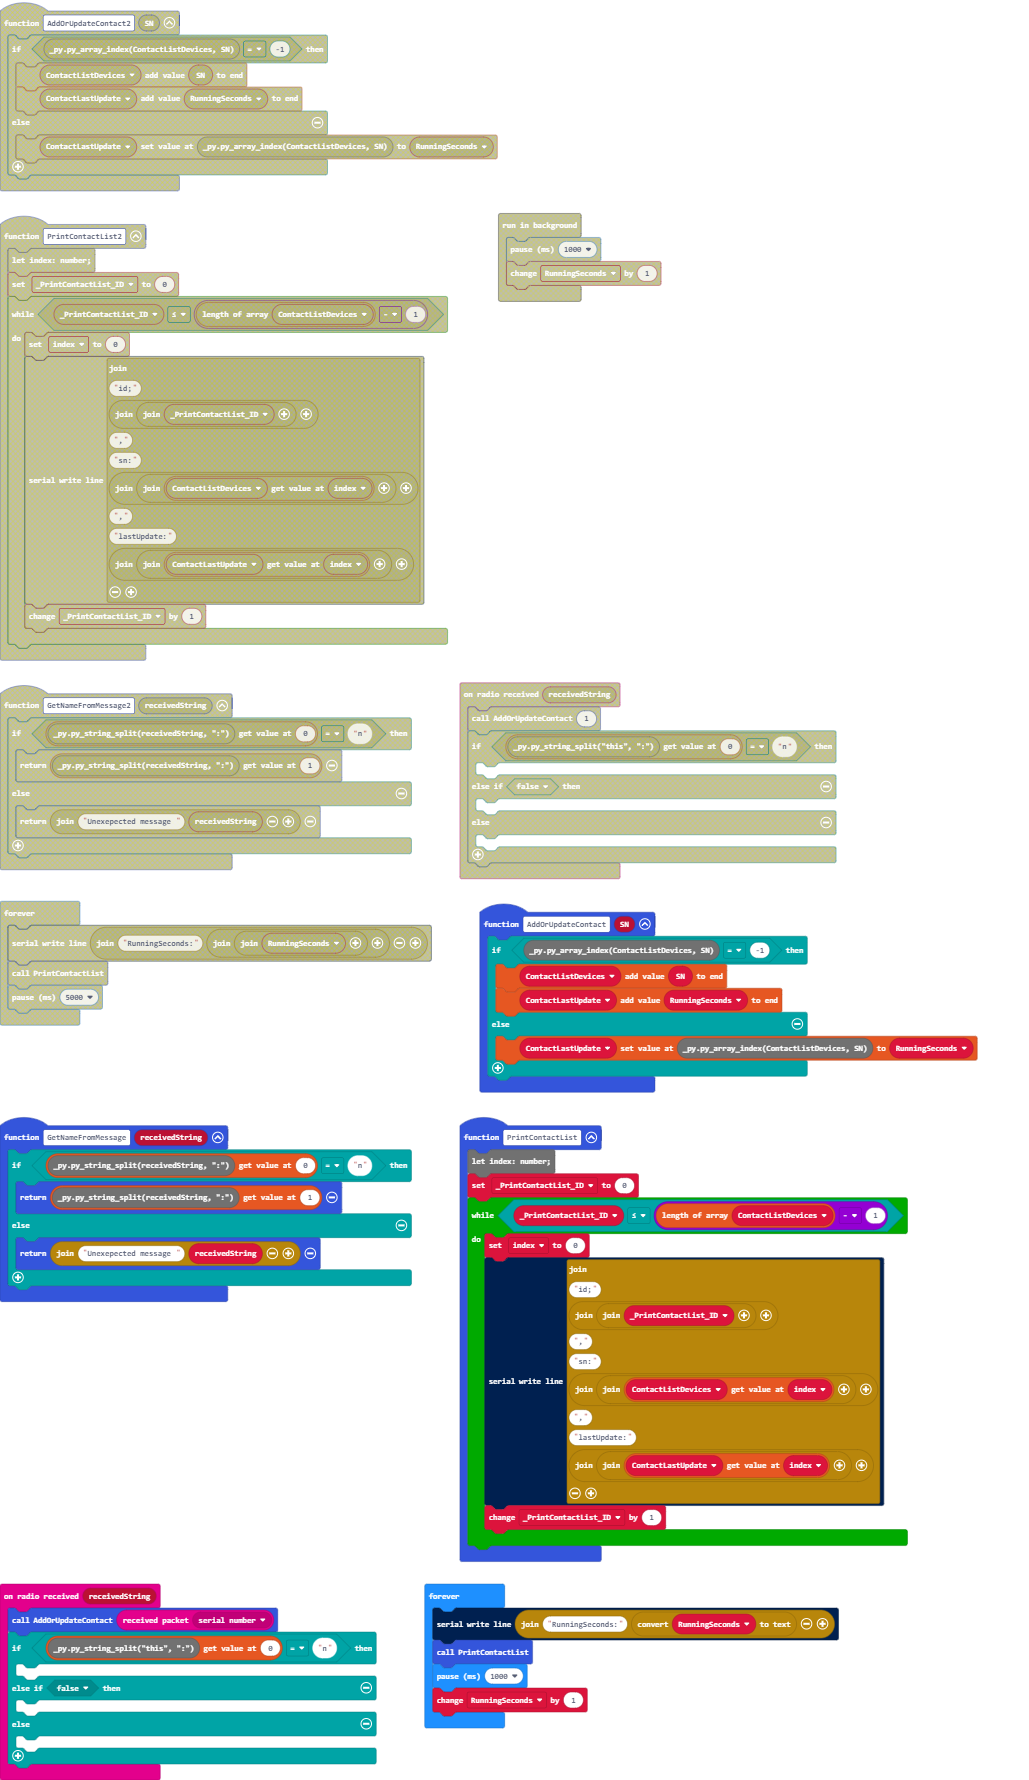
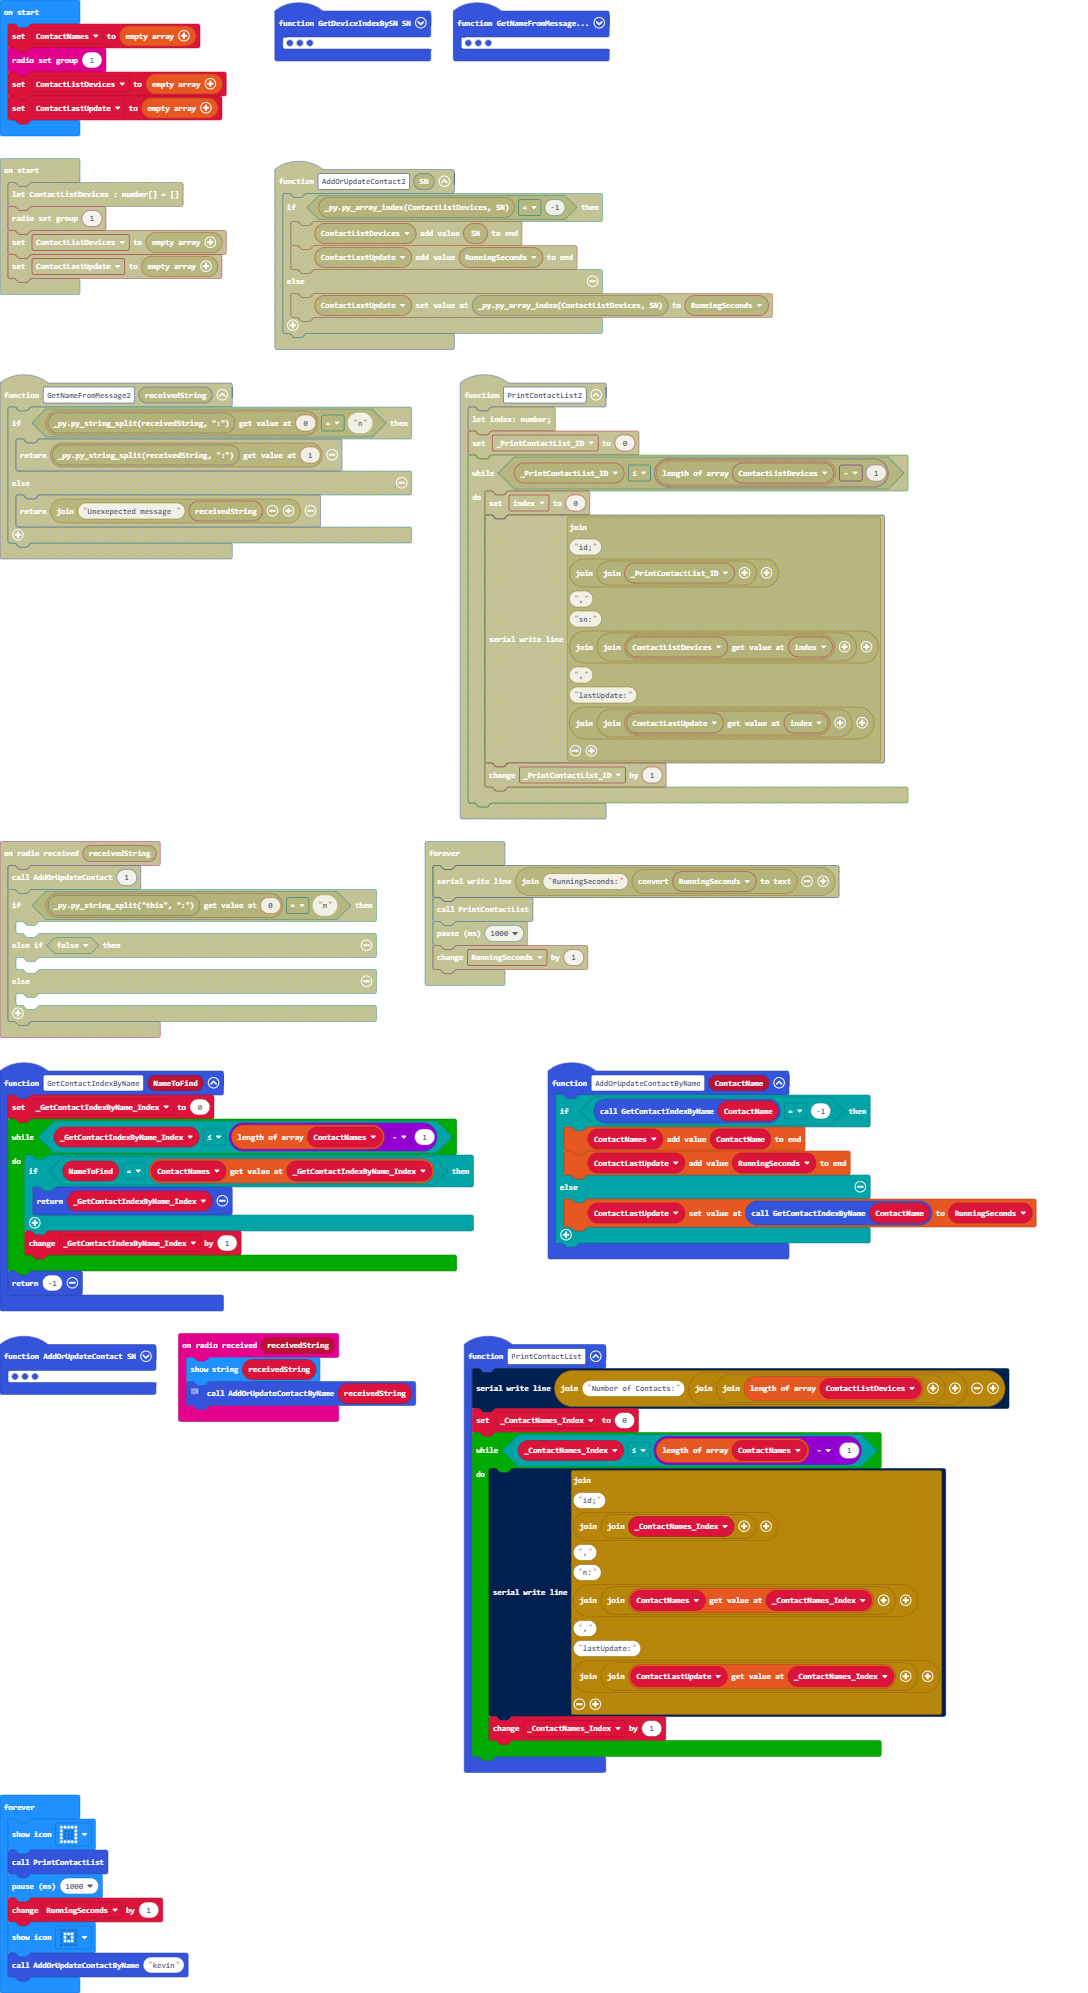
Using contact name for index. Console not working

diff --git a/main.ts b/main.ts
@@ -1,5 +1,6 @@
 function GetDeviceIndexBySN(SN: number): number {
-    let index = 0
+    
+    index = 0
     while (index <= ContactListDevices.length - 1) {
         if (SN == ContactListDevices[0]) {
             return index
@@ -31,31 +32,54 @@ function GetNameFromMessage(receivedString: string): string {
 
 function PrintContactList() {
     
-    _PrintContactList_ID = 0
-    while (_PrintContactList_ID <= ContactListDevices.length - 1) {
-        serial.writeLine("id;" + ("" + ("" + _PrintContactList_ID)) + "," + "sn:" + ("" + ("" + ContactListDevices[_PrintContactList_ID])) + "," + "lastUpdate:" + ("" + ("" + ContactLastUpdate[_PrintContactList_ID])))
-        _PrintContactList_ID += 1
+    serial.writeLine("Number of Contacts:" + ("" + ("" + ContactListDevices.length)))
+    _ContactNames_Index = 0
+    while (_ContactNames_Index <= ContactNames.length - 1) {
+        serial.writeLine("id;" + ("" + ("" + _ContactNames_Index)) + "," + "n:" + ("" + ContactNames[_ContactNames_Index]) + "," + "lastUpdate:" + ("" + ("" + ContactLastUpdate[_ContactNames_Index])))
+        _ContactNames_Index += 1
     }
 }
 
-radio.onReceivedString(function on_received_string(receivedString: string) {
-    AddOrUpdateContact(radio.receivedPacket(RadioPacketProperty.SerialNumber))
-    if (_py.py_string_split("this", ":")[0] == "n") {
-        
-    } else if (false) {
-        
+function AddOrUpdateContactByName(ContactName: string) {
+    if (GetContactIndexByName(ContactName) == -1) {
+        ContactNames.push(ContactName)
+        ContactLastUpdate.push(RunningSeconds)
     } else {
-        
+        ContactLastUpdate[GetContactIndexByName(ContactName)] = RunningSeconds
     }
     
+}
+
+radio.onReceivedString(function on_received_string(receivedString: string) {
+    basic.showString(receivedString)
+    //  AddOrUpdateContact(radio.received_packet(RadioPacketProperty.SERIAL_NUMBER))
+    AddOrUpdateContactByName(receivedString)
 })
-let _PrintContactList_ID = 0
+function GetContactIndexByName(NameToFind: string): number {
+    
+    _GetContactIndexByName_Index = 0
+    while (_GetContactIndexByName_Index <= ContactNames.length - 1) {
+        if (NameToFind == ContactNames[_GetContactIndexByName_Index]) {
+            return _GetContactIndexByName_Index
+        }
+        
+        _GetContactIndexByName_Index += 1
+    }
+    return -1
+}
+
+let _GetContactIndexByName_Index = 0
+let _ContactNames_Index = 0
 let RunningSeconds = 0
+let index = 0
 let ContactLastUpdate : number[] = []
 let ContactListDevices : number[] = []
+let ContactNames : string[] = []
+ContactNames = []
 radio.setGroup(1)
 ContactListDevices = []
 ContactLastUpdate = []
+//  AddOrUpdateContactByName("kevin")
 basic.forever(function on_forever() {
     
     basic.showIcon(IconNames.Square)

diff --git a/main.py b/main.py
@@ -1,4 +1,5 @@
 def GetDeviceIndexBySN(SN: number):
+    global index
     index = 0
     while index <= len(ContactListDevices) - 1:
         if SN == ContactListDevices[0]:
@@ -17,26 +18,41 @@ def GetNameFromMessage(receivedString: str):
     else:
         return "Unexepected message " + receivedString
 def PrintContactList():
-    global _PrintContactList_ID
-    _PrintContactList_ID = 0
-    while _PrintContactList_ID <= len(ContactListDevices) - 1:
-        serial.write_line("id;" + ("" + str(_PrintContactList_ID)) + "," + "sn:" + ("" + str(ContactListDevices[_PrintContactList_ID])) + "," + "lastUpdate:" + ("" + str(ContactLastUpdate[_PrintContactList_ID])))
-        _PrintContactList_ID += 1
+    global _ContactNames_Index
+    serial.write_line("Number of Contacts:" + ("" + str(len(ContactListDevices))))
+    _ContactNames_Index = 0
+    while _ContactNames_Index <= len(ContactNames) - 1:
+        serial.write_line("id;" + ("" + str(_ContactNames_Index)) + "," + "n:" + ("" + ContactNames[_ContactNames_Index]) + "," + "lastUpdate:" + ("" + str(ContactLastUpdate[_ContactNames_Index])))
+        _ContactNames_Index += 1
+def AddOrUpdateContactByName(ContactName: str):
+    if GetContactIndexByName(ContactName) == -1:
+        ContactNames.append(ContactName)
+        ContactLastUpdate.append(RunningSeconds)
+    else:
+        ContactLastUpdate[GetContactIndexByName(ContactName)] = RunningSeconds
 
 def on_received_string(receivedString):
-    AddOrUpdateContact(radio.received_packet(RadioPacketProperty.SERIAL_NUMBER))
-    if "this".split(":")[0] == "n":
-        pass
-    elif False:
-        pass
-    else:
-        pass
+    basic.show_string(receivedString)
+    # AddOrUpdateContact(radio.received_packet(RadioPacketProperty.SERIAL_NUMBER))
+    AddOrUpdateContactByName(receivedString)
 radio.on_received_string(on_received_string)
 
-_PrintContactList_ID = 0
+def GetContactIndexByName(NameToFind: str):
+    global _GetContactIndexByName_Index
+    _GetContactIndexByName_Index = 0
+    while _GetContactIndexByName_Index <= len(ContactNames) - 1:
+        if NameToFind == ContactNames[_GetContactIndexByName_Index]:
+            return _GetContactIndexByName_Index
+        _GetContactIndexByName_Index += 1
+    return -1
+_GetContactIndexByName_Index = 0
+_ContactNames_Index = 0
 RunningSeconds = 0
+index = 0
 ContactLastUpdate: List[number] = []
 ContactListDevices: List[number] = []
+ContactNames: List[str] = []
+ContactNames = []
 radio.set_group(1)
 ContactListDevices = []
 ContactLastUpdate = []
@@ -48,4 +64,5 @@ def on_forever():
     basic.pause(1000)
     RunningSeconds += 1
     basic.show_icon(IconNames.SMALL_SQUARE)
+    # AddOrUpdateContactByName("kevin")
 basic.forever(on_forever)
